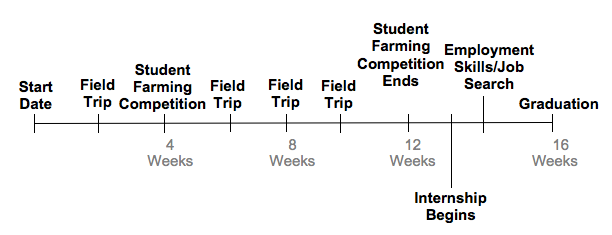
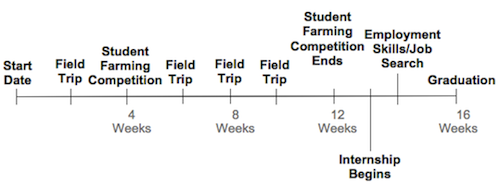
add margin to h5 in right column reduced training_schedule image size

diff --git a/gb_styles.css b/gb_styles.css
@@ -387,6 +387,12 @@ div#facebook-like {
 	margin-top:30px;
 	margin-bottom:5px;
 	clear:both;}
+
+#content_right h5 {
+	padding-left:40px;
+	margin-top:30px;
+	clear:both;}
+
 #content_right h2 {
 	padding-top:50px;
 	padding-bottom:50px;

diff --git a/farming.php b/farming.php
@@ -43,7 +43,7 @@
       <div id="content">
       		<div id="content_left">
                <p><strong>How It Works</strong></p>
-        	<ul>
+        	<<ul>
                 <li class="active"><a href="farming.php">Vocational Farming</a></li>
                 <li class="active"><a href="training.php">Training Program Overview</a></li>
                 <li class="active"><a href="farm.php">About the Farm</a></li>
@@ -60,12 +60,12 @@
 			<h2>VOCATIONAL FARMING</h2>
             <h4>Vocational Farming</h4> 
             <p>
-            	The goal of Groundbreakers is to prepare unemployed, underemployed or previously incarcerated persons, and homeless adults for careers in farming, plant nurseries, landscaping, or parks and recreation.</p>
-			<p>	Up to 10 students may be enrolled in each class cycle. Participants attend training Monday through Friday each week, from 7:30 a.m. to 4:30 p.m. Groundbreakers offers students free transportation between the farm and Seattle each day.</p>
+            	The goal of Groundbreakers is to prepare unemployed, underemployed or previously incarcerated persons, and homeless adults for careers in farming, plant nurseries, landscaping, or parks and recreation.</p><br/>
+			<p>	Up to 10 students may be enrolled in each class cycle. Participants attend training Monday through Friday each week, from 7:30 a.m. to 4:30 p.m. Groundbreakers offers students free transportation between the farm and Seattle each day.</p><br/>
 			<p>	The 16-week curriculum includes "hands-on" training by our experienced Field Trainers. There will be no more than 4 students per Field Trainer. The program will cover the following:
             </p>
         	<p>	
-				<ul>	
+				<ul><ul>	
 					<li>Farming Techniques and Methods</li>
 					<li>Plant Health, Pathology and Pests</li>
 					<li>Composting, Cover Crops and Rotation </li>
@@ -74,10 +74,10 @@
 					<li>Harvesting and Food Preservation</li>
 					<li>Farm Management and Safety</li>
 					<li>2 Internships, 4 Field Trips and A Growing Competition</li>
-				</ul>	
+				</ul></ul>	
         	</p>
 
-			<p>Throughout the program, Groundbreakers teaches the importance of job-readiness skills such as positive work attitude, teamwork, punctuality, computer literacy, resume writing, and interviewing techniques.</p>
+			<p>Throughout the program, Groundbreakers teaches the importance of job-readiness skills such as positive work attitude, teamwork, punctuality, computer literacy, resume writing, and interviewing techniques.</p><br/>
 			<p>Groundbreakers can offer a constructive solution and help end the difficult cycle of homelessness and unemployment in King County. This is a solution that works for everyone: employers get qualified employees, and men and women in need of a good job get work in their field of interest.</p>
 
             

diff --git a/training.php b/training.php
@@ -62,7 +62,7 @@
             <h4>Training Program Overview</h4> 
             <p>The Students spend 16 weeks training in a variety of ways:</p>
 
-			<img src="images/training_schedule.png" alt="training schedule" />
+			<p><img src="images/training_schedule.png" alt="training schedule"/></p>
 			
 			<br/>
 			<h5>Personal Life Sessions</h5> 
@@ -74,14 +74,14 @@
 			<h5>Monday – Friday </h5>
 			<p>Students participate in six modules covering the following competencies:</p>
 			<p>	
-				<ul>
+				<ul><ul>
 					<li>Module One – Introduction to Plant Health, PathologyandPests</li>
 					<li>Module Two – Introduction to Composting, Cover CropsandRotation</li>
 					<li>Module Three – Introduction to Permaculture</li>
 					<li>Module Four – Introduction to Greenhouses and Propagation</li>
 					<li>Module Five – Harvesting and Food Preservation</li>
 					<li>Module Six – Management and Safety</li>
-				</ul>
+				</ul></ul>
 			</p>
 
 			<br/>
@@ -100,23 +100,23 @@
 			<br/>
 			<h5>Students are evaluated by mentors in the following areas:</h5>
 			<p>
-				<ul>
+				<ul><ul>
 					<li>Attendance and punctuality</li>
 					<li>Attitude</li>
 					<li>Ability to follow direction</li>
 					<li>Practical Skills and Application</li>
 					<li>Safety and Sanitation – Knowledge and Practice</li>
 					<li>Teamwork</li>
-				</ul>
+				</ul></ul>
 			</p>
 
 			<br/>
-			<h5>Employment SkillsandJob Search: 2 Weeks (80 hours)</h5>
+			<h5>Employment Skills and Job Search: 2 Weeks (80 hours)</h5>
 			<p>
 				The last two weeks of the program consist of a full-time job search, when students spend each day filling out applications and going on interviews. Our goal is to support all of our students to successfully obtain employment before they graduate. The employment component of the Vocational Farming Program begins with students examining their career goals, interests, and skills. This progresses to employment skills, when students learn how to fill out applications, write resumes and cover letters, interview successfully, and search for and apply to jobs on the Internet. A more detailed breakdown is as follows:
 			</p>
 			<p>
-				<ul>
+				<ul><ul>
 					<li>A Job vs. a Career</li>
 					<li>Skills Inventory</li>
 					<li>Employment Hurdles/Goal Setting</li>
@@ -130,7 +130,7 @@
 					<li>Punctuality, Positive Work Ethic and Professional Behavior</li>
 					<li>Mock Interview Sessions / Informational Interviews</li>
 					<li>Job Search</li>
-				</ul>
+				</ul></ul>
 			</p>
 			
 			<br/>
